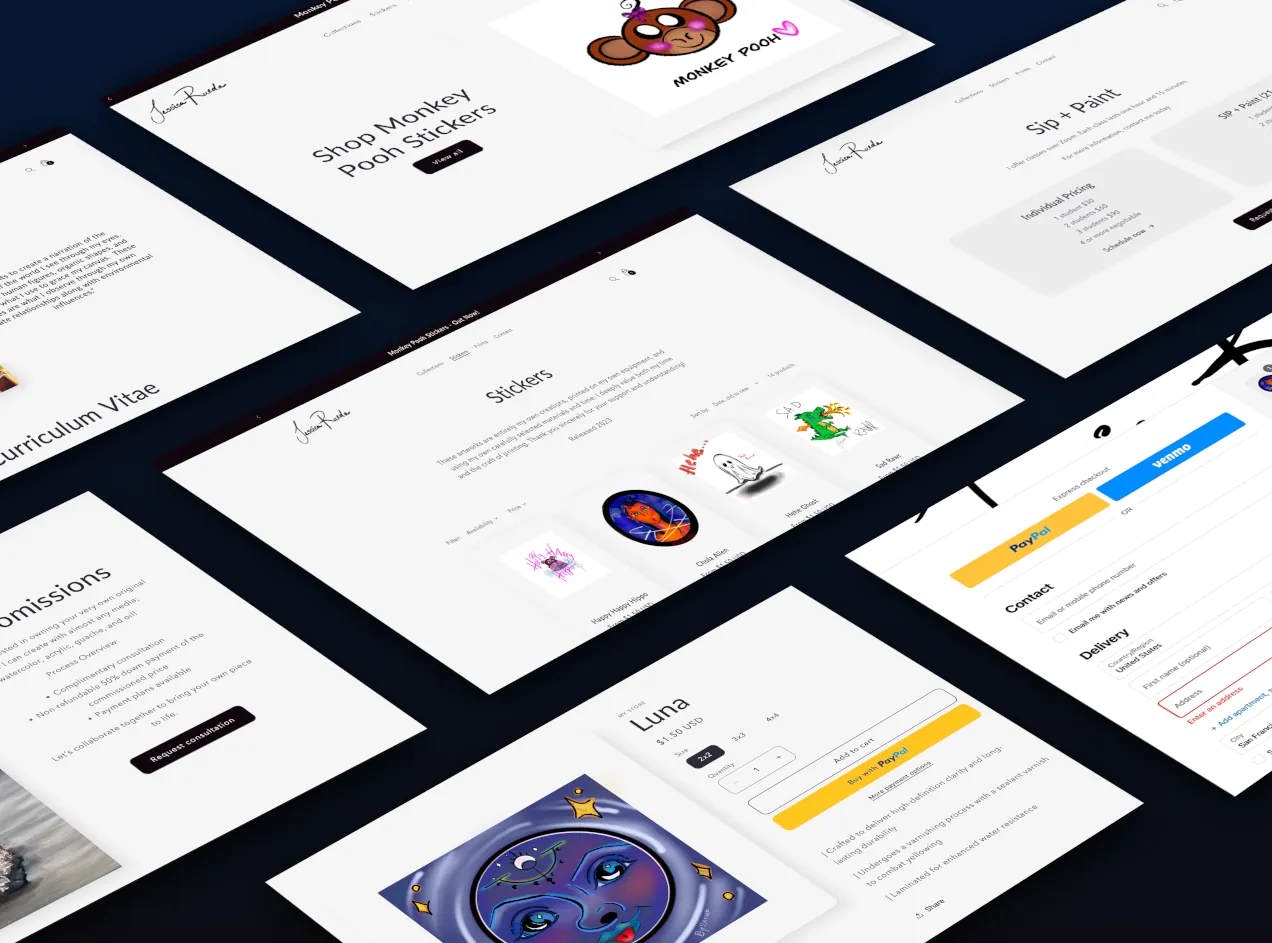
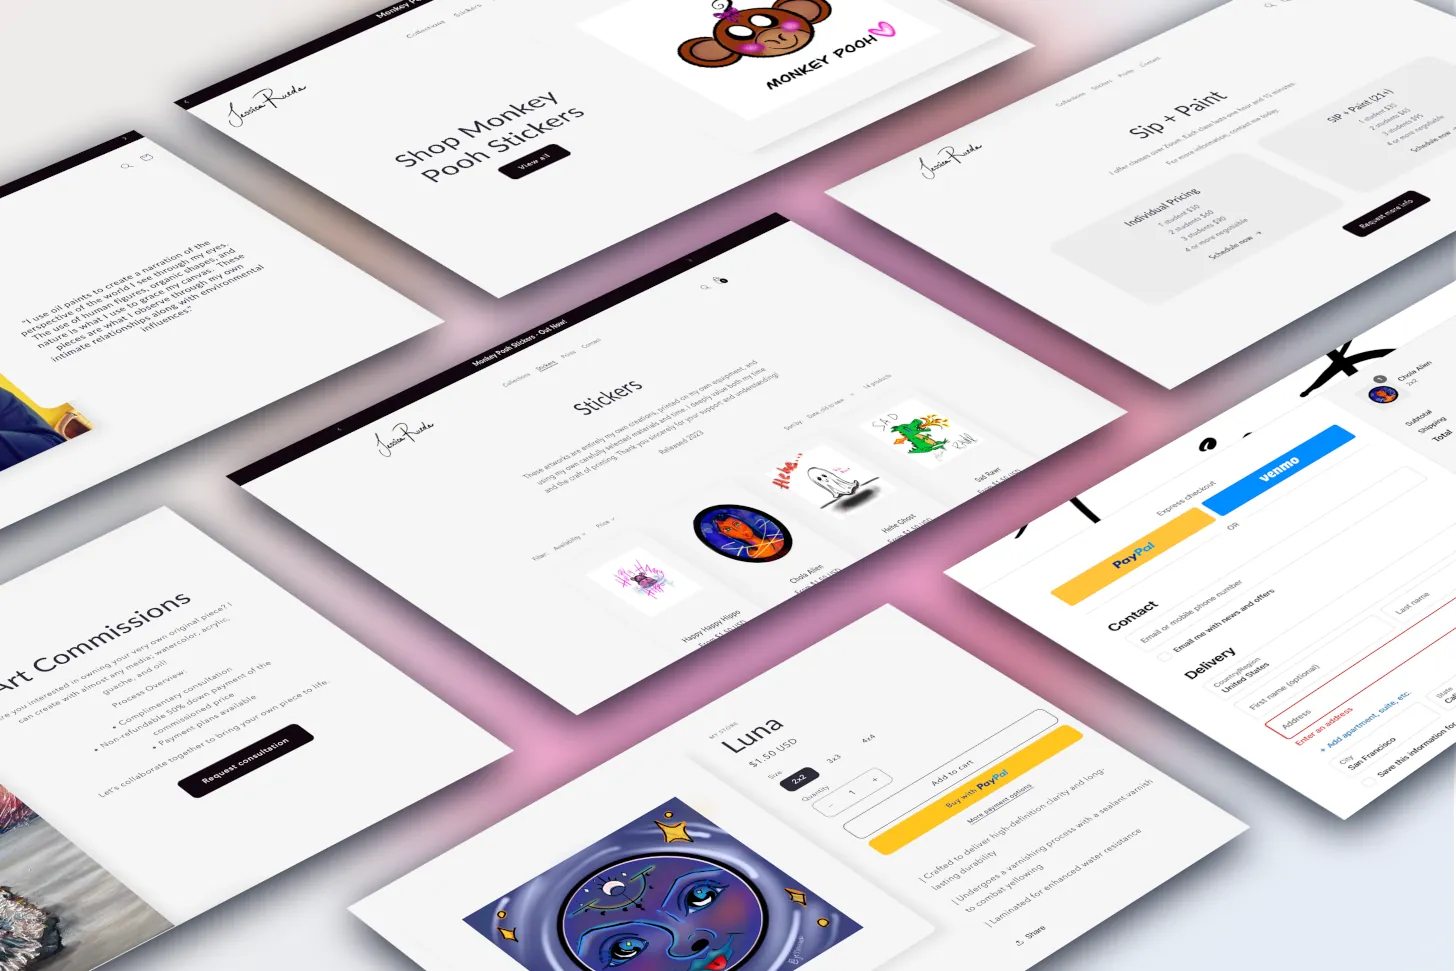
Update images, refactor colors

diff --git a/src/dark_mode_style.ts b/src/dark_mode_style.ts
@@ -1,9 +1,8 @@
 import type { CSSProperties } from 'react'
 
-const darkTextColor = '#3E4242'
-const lightTextColor = '#F5F5F5'
 const darkBackgroundColor = '#090B0B'
-const lightBackgroundColor = '#F5F5F5'
+const darkTextColor = '#3E4242'
+const lightColor = '#F5F5F5'
 
 interface Colors {
   background: CSSProperties['color']
@@ -12,11 +11,11 @@ interface Colors {
 
 const darkModeDefaultColors: Colors = {
   background: darkBackgroundColor,
-  text: lightTextColor
+  text: lightColor
 }
 
 const lightModeDefaultColors: Colors = {
-  background: lightBackgroundColor,
+  background: lightColor,
   text: darkTextColor
 }
 

diff --git a/src/components/background/index.tsx b/src/components/background/index.tsx
@@ -1,10 +1,15 @@
-import React from 'react'
+import React, { useContext } from 'react'
+
+import DarkModeContext from 'dark_mode_context'
+import darkModeStyle from 'dark_mode_style'
 
 import Spline from './spline'
 
 const Background = (): JSX.Element => {
+  const { darkMode } = useContext(DarkModeContext)
+  const { background } = darkModeStyle(darkMode)
   return (
-    <div className='fixed-background'>
+    <div className='fixed-background' style={{ background }}>
       <Spline />
     </div>
   )
